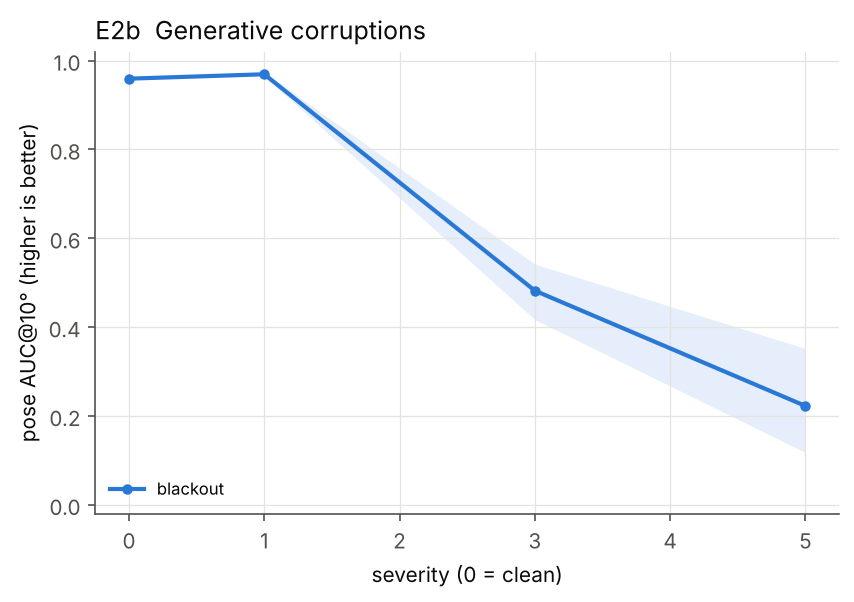
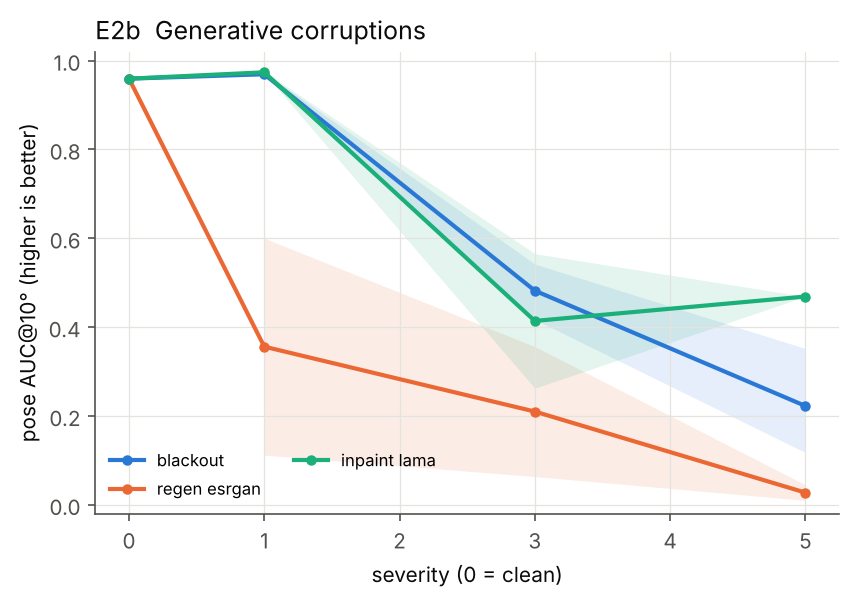
Generative noise (ESRGAN, LaMa) seed 0
Claude-Session: https://claude.ai/code/session_01DwFUuxyVwkhujN2CBgQS9g

diff --git a/results/summary.md b/results/summary.md
@@ -53,6 +53,12 @@ Metric: pose AUC@10° over all input image pairs (unregistered = failure) and re
 | blackout | 1 | 6 | 0.969 [0.96, 0.97] | 1.000 [1.00, 1.00] |
 | blackout | 3 | 6 | 0.482 [0.42, 0.54] | 0.711 [0.66, 0.76] |
 | blackout | 5 | 6 | 0.222 [0.12, 0.35] | 0.468 [0.35, 0.60] |
+| inpaint_lama | 1 | 2 | 0.974 [0.97, 0.98] | 1.000 [1.00, 1.00] |
+| inpaint_lama | 3 | 2 | 0.414 [0.26, 0.57] | 0.653 [0.53, 0.78] |
+| inpaint_lama | 5 | 1 | 0.469 | 0.720 |
+| regen_esrgan | 1 | 2 | 0.356 [0.11, 0.60] | 0.677 [0.38, 0.98] |
+| regen_esrgan | 3 | 2 | 0.210 [0.06, 0.36] | 0.460 [0.30, 0.62] |
+| regen_esrgan | 5 | 2 | 0.027 [0.01, 0.05] | 0.185 [0.12, 0.25] |
 
 
 ## E1s  Synthetic weather incl. desert
@@ -96,6 +102,7 @@ Metric: pose AUC@10° over all input image pairs (unregistered = failure) and re
 | 4 | unsharp_bicubic | 6 | 0.320 [0.18, 0.46] | 0.555 [0.42, 0.69] |
 | 8 | bicubic | 6 | 0.026 [0.01, 0.04] | 0.145 [0.07, 0.21] |
 | 8 | lowres | 6 | 0.000 [0.00, 0.00] | 0.037 [0.01, 0.06] |
+| 8 | realesrgan | 1 | 0.000 | 0.040 |
 | 8 | unsharp_bicubic | 6 | 0.051 [0.05, 0.05] | 0.245 [0.24, 0.25] |
 
 
@@ -128,6 +135,11 @@ Metric: pose AUC@10° over all input image pairs (unregistered = failure) and re
 | crowd | 0.500 | 6 | 0.298 [0.16, 0.42] | 0.859 [0.73, 0.97] |
 | crowd | 0.750 | 6 | 0.126 [0.07, 0.18] | 0.934 [0.89, 0.97] |
 | crowd | 1.000 | 6 | 0.023 [0.01, 0.04] | 0.966 [0.91, 1.00] |
+| inpaint_lama | 0.100 | 1 | 0.966 | 1.000 |
+| inpaint_lama | 0.250 | 1 | 0.868 | 1.000 |
+| inpaint_lama | 0.500 | 1 | 0.939 | 1.000 |
+| inpaint_lama | 0.750 | 1 | 0.571 | 0.780 |
+| inpaint_lama | 1.000 | 1 | 0.570 | 0.780 |
 | motion_blur | 0.100 | 6 | 0.599 [0.43, 0.73] | 0.829 [0.75, 0.90] |
 | motion_blur | 0.250 | 6 | 0.285 [0.13, 0.44] | 0.508 [0.34, 0.67] |
 | motion_blur | 0.500 | 6 | 0.028 [0.01, 0.06] | 0.162 [0.10, 0.23] |
